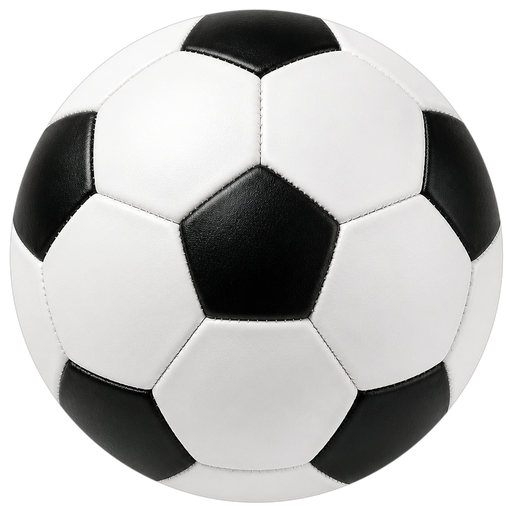
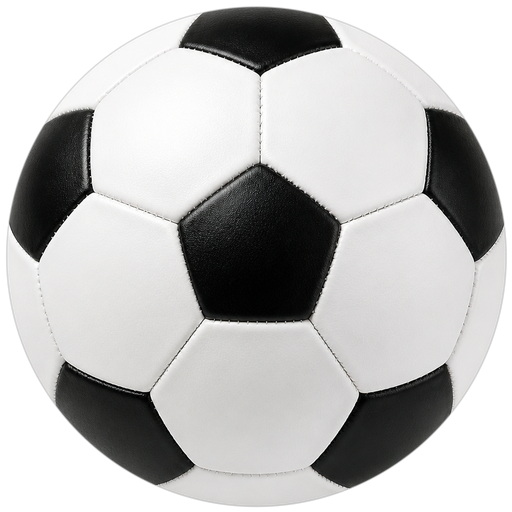
Polish login football with soft circular masking
Swap the jagged ball asset for a chroma-keyed photoreal mark with
distance-field anti-aliasing and circular CSS clipping.

diff --git a/src/app/globals.css b/src/app/globals.css
@@ -1732,15 +1732,18 @@ html[data-theme="light"] .standings-row-top3 {
 }
 
 .login-brand-ball {
-  width: 0.82em;
-  height: 0.82em;
+  width: 0.78em;
+  height: 0.78em;
   flex-shrink: 0;
   display: block;
   object-fit: cover;
   border-radius: 50%;
-  transform: translateY(0.05em);
-  box-shadow: 0 1px 2px rgba(0, 0, 0, 0.28);
+  overflow: hidden;
+  transform: translateY(0.04em);
+  box-shadow: 0 1px 2px rgba(0, 0, 0, 0.22);
   background: transparent;
+  -webkit-user-drag: none;
+  user-select: none;
 }
 
 .login-sub {
